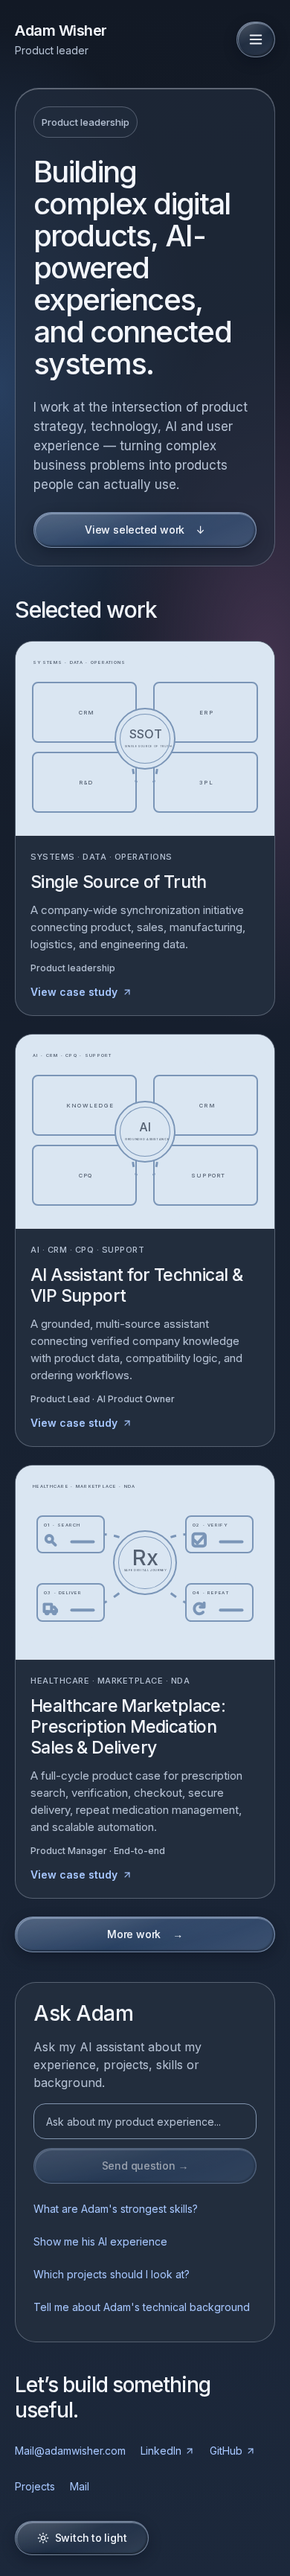
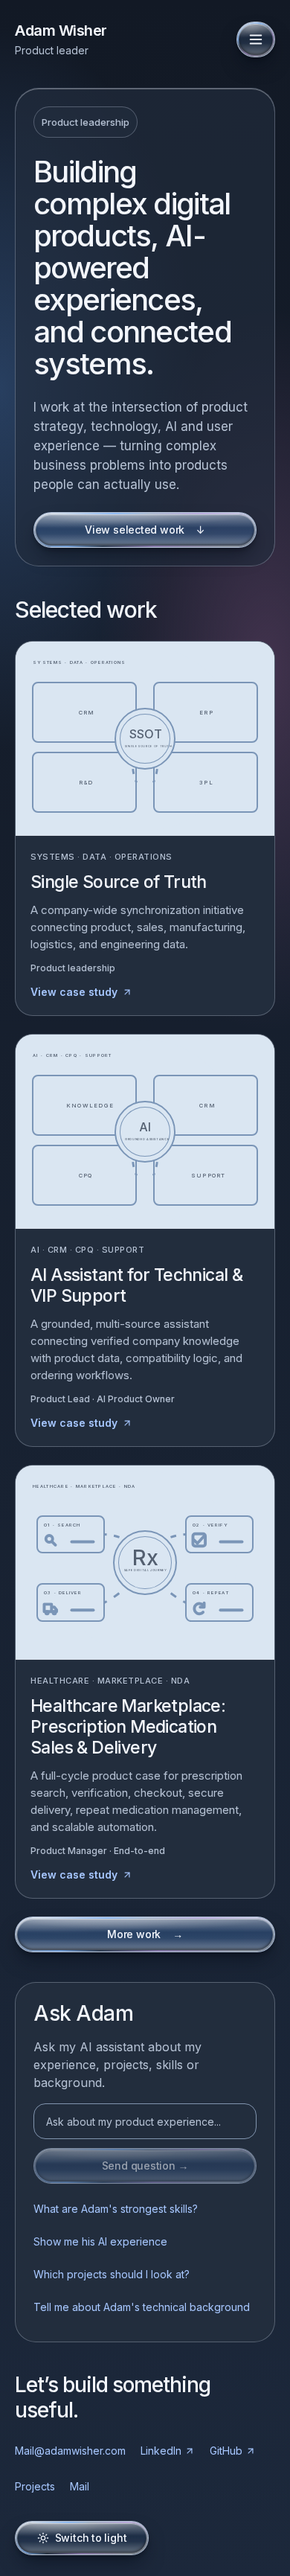
Sculpt high-gloss convex glass controls with reflective rims and deeper shadows

diff --git a/app/liquid-glass.css b/app/liquid-glass.css
@@ -6,12 +6,16 @@
   --reference-blue: #ccdbf8;
   --reference-lilac: #e1cee1;
   --liquid-text: #263e62;
-  --liquid-tint: rgb(255 255 255 / 0.3);
-  --liquid-primary-tint: rgb(221 234 255 / 0.48);
-  --liquid-light: rgb(255 255 255 / 0.72);
+  --liquid-tint: rgb(255 255 255 / 0.16);
+  --liquid-primary-tint: rgb(221 234 255 / 0.26);
+  --liquid-light: rgb(255 255 255 / 0.86);
   --liquid-edge: rgb(255 255 255 / 0.88);
-  --liquid-shadow: rgb(54 74 112 / 0.13);
-  --liquid-bottom: rgb(100 127 172 / 0.18);
+  --liquid-shadow: rgb(54 74 112 / 0.25);
+  --liquid-contact: rgb(42 59 92 / 0.15);
+  --liquid-rim-blue: rgb(111 158 222 / 0.55);
+  --liquid-rim-lilac: rgb(183 150 206 / 0.48);
+  --liquid-reflection: rgb(255 255 255 / 0.94);
+  --liquid-bottom: rgb(79 111 164 / 0.24);
   --page-gradient:
     radial-gradient(
       ellipse 68vw 54vh at 0% 58vh,
@@ -30,9 +34,13 @@
   --liquid-text: #f3f6fc;
   --liquid-tint: rgb(34 48 70 / 0.68);
   --liquid-primary-tint: rgb(49 75 112 / 0.72);
-  --liquid-light: rgb(255 255 255 / 0.12);
-  --liquid-edge: rgb(209 225 250 / 0.44);
-  --liquid-shadow: rgb(4 10 22 / 0.32);
+  --liquid-light: rgb(255 255 255 / 0.24);
+  --liquid-edge: rgb(225 237 255 / 0.72);
+  --liquid-shadow: rgb(4 10 22 / 0.5);
+  --liquid-contact: rgb(2 8 18 / 0.3);
+  --liquid-rim-blue: rgb(133 186 255 / 0.75);
+  --liquid-rim-lilac: rgb(201 164 236 / 0.56);
+  --liquid-reflection: rgb(255 255 255 / 0.42);
   --liquid-bottom: rgb(0 0 0 / 0.35);
   --page-gradient:
     radial-gradient(
@@ -63,25 +71,33 @@ body::before {
   background: var(--page-gradient);
 }
 :is(.primary-button, .nav-pill, .glass-control, .liquid-button) {
+  --liquid-fill: var(--liquid-tint);
   position: relative;
   isolation: isolate;
   border: 1px solid var(--liquid-edge);
   border-radius: 999px;
   background:
-    linear-gradient(
-      155deg,
-      var(--liquid-light) 0%,
-      transparent 48%,
-      rgb(255 255 255 / 0.09) 100%
+    radial-gradient(
+      ellipse 80% 75% at 15% 0%,
+      var(--liquid-light),
+      transparent 65%
     ),
-    var(--liquid-tint);
+    linear-gradient(
+      180deg,
+      rgb(255 255 255 / 0.18),
+      transparent 45%,
+      rgb(255 255 255 / 0.1)
+    ),
+    var(--liquid-fill);
   color: var(--liquid-text);
   box-shadow:
-    0 6px 18px var(--liquid-shadow),
-    inset 0 1px 0 var(--liquid-edge),
-    inset 0 -1px 1px var(--liquid-bottom);
-  -webkit-backdrop-filter: blur(20px) saturate(145%);
-  backdrop-filter: blur(20px) saturate(145%);
+    0 14px 26px -6px var(--liquid-shadow),
+    0 3px 6px var(--liquid-contact),
+    inset 0 2px 2px var(--liquid-edge),
+    inset 0 -3px 4px var(--liquid-bottom),
+    inset 2px 0 2px var(--liquid-light);
+  -webkit-backdrop-filter: blur(16px) saturate(170%);
+  backdrop-filter: blur(16px) saturate(170%);
   font-weight: 500;
   letter-spacing: -0.015em;
   text-decoration: none;
@@ -91,23 +107,61 @@ body::before {
     transform 0.18s;
 }
 :is(.primary-button, .liquid-button--primary) {
-  background-color: var(--liquid-primary-tint);
+  --liquid-fill: var(--liquid-primary-tint);
 }
+/* A curved upper reflection and lower return light shape the convex lens.
+   Both optical layers remain behind labels and outside hit testing. */
 :is(.primary-button, .nav-pill, .glass-control, .liquid-button)::before {
   content: "";
   position: absolute;
-  inset: 1px;
+  inset: 2px;
   z-index: -1;
   border-radius: inherit;
   pointer-events: none;
-  background: radial-gradient(
-    ellipse at 22% -25%,
-    var(--liquid-light),
-    transparent 68%
-  );
+  background:
+    radial-gradient(
+      ellipse 62% 65% at 48% -25%,
+      var(--liquid-reflection),
+      transparent 95%
+    ),
+    linear-gradient(
+      180deg,
+      var(--liquid-light) 0%,
+      transparent 42%,
+      transparent 62%,
+      rgb(255 255 255 / 0.25) 100%
+    );
   box-shadow:
-    inset 1px 1px 1px var(--liquid-edge),
-    inset -1px -1px 2px var(--liquid-bottom);
+    inset 0 1px 1px var(--liquid-reflection),
+    inset 0 -2px 3px var(--liquid-bottom);
+}
+/* Mask out the center: this is a hollow refractive rim, never a text overlay. */
+@supports (mask-composite: exclude) or (-webkit-mask-composite: xor) {
+  :is(.primary-button, .nav-pill, .glass-control, .liquid-button)::after {
+    content: "";
+    position: absolute;
+    inset: 0;
+    z-index: -1;
+    padding: 2px;
+    border-radius: inherit;
+    pointer-events: none;
+    background: linear-gradient(
+      145deg,
+      var(--liquid-reflection) 8%,
+      var(--liquid-rim-blue) 30%,
+      transparent 43%,
+      var(--liquid-rim-lilac) 62%,
+      var(--liquid-reflection) 88%
+    );
+    -webkit-mask:
+      linear-gradient(#fff 0 0) content-box,
+      linear-gradient(#fff 0 0);
+    mask:
+      linear-gradient(#fff 0 0) content-box,
+      linear-gradient(#fff 0 0);
+    -webkit-mask-composite: xor;
+    mask-composite: exclude;
+  }
 }
 .nav-pill[aria-current="page"] {
   color: rgb(var(--color-accent));
@@ -120,9 +174,10 @@ body::before {
     background-color: var(--liquid-primary-tint);
     color: var(--liquid-text);
     box-shadow:
-      0 8px 22px var(--liquid-shadow),
-      inset 0 1px 1px var(--liquid-edge),
-      inset 0 -1px 2px var(--liquid-bottom);
+      0 18px 30px -5px var(--liquid-shadow),
+      0 4px 8px var(--liquid-contact),
+      inset 0 2px 3px var(--liquid-reflection),
+      inset 0 -3px 5px var(--liquid-bottom);
     transform: translateY(-1px);
   }
 }
@@ -144,7 +199,8 @@ body::before {
     border-color: var(--control-border);
     box-shadow: none;
   }
-  :is(.primary-button, .nav-pill, .glass-control, .liquid-button)::before {
+  :is(.primary-button, .nav-pill, .glass-control, .liquid-button)::before,
+  :is(.primary-button, .nav-pill, .glass-control, .liquid-button)::after {
     display: none;
   }
 }
@@ -156,7 +212,8 @@ body::before {
     backdrop-filter: none;
     box-shadow: none;
   }
-  :is(.primary-button, .nav-pill, .glass-control, .liquid-button)::before {
+  :is(.primary-button, .nav-pill, .glass-control, .liquid-button)::before,
+  :is(.primary-button, .nav-pill, .glass-control, .liquid-button)::after {
     display: none;
   }
 }

diff --git a/docs/figma-redesign-implementation.md b/docs/figma-redesign-implementation.md
@@ -95,3 +95,7 @@ Controls now share a CSS Liquid Glass approximation: translucent tint, backgroun
 Image sampling excluding browser chrome found a neutral patch of #E8EDF3 and a blue patch near #CADBF7, consistent with the approved #CCDBF8 palette within JPEG/gradient variation. Viewport-scaled first-screen radial fields now places blue light on the left and lilac at the lower right, instead of stretching one diagonal gradient over the entire long page. The top remains neutral. Dark uses separately chosen tokens.
 
 Inter remains the approved practical typeface, with 500 headlines/control labels and 600 identity text. The exact font in the bitmap cannot be established reliably. Headline scale, tracking and responsive breaks remain intact; button labels now use a calmer medium weight. The screenshot's Safari UI is not part of the site.
+
+### Higher-gloss control revision
+
+Following the owner's approval of text and background, only the button material was intensified: clearer fill, brighter curved upper reflection, a hollow two-pixel refractive rim, lower return light, deeper contact/ambient shadows, and stronger hover depth. Light and dark use separate optical tokens. Decorative layers remain behind labels and ignore pointer events. Both optical layers disappear for reduced transparency/increased contrast and unsupported backdrop filters. Approved background and typography values are unchanged by this revision.
